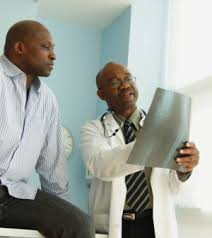
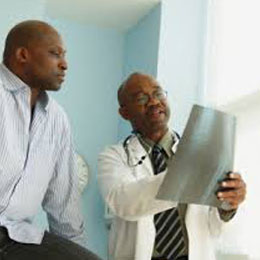
resized images

diff --git a/js/bigChart.js b/js/bigChart.js
@@ -36,26 +36,26 @@ function showBigChart() {
     datasets: [{
       label: 'Daily Goal',
       fillColor: 'rgba(100, 100, 100, 0.2)',
-      strokeColor: 'black',
-      pointColor: 'black',
+      strokeColor: '#2b2b2b',
+      pointColor: '#2b2b2b',
       data: lineChartGoal
     }, {
       label: 'Daily Water Intake',
       fillColor: 'rgba(0,0,0,0)',
-      strokeColor: 'blue',
-      pointColor: 'blue',
+      strokeColor: '#3aa7bf',
+      pointColor: '#3aa7bf',
       data: dayWater
     }, {
       label: 'Daily Protein Intake',
       fillColor: 'rgba(0,0,0,0)',
-      strokeColor: 'red',
-      pointColor: 'red',
+      strokeColor: '#b02e2e',
+      pointColor: '#b02e2e',
       data: dayProtein
     }, {
       label: 'Daily Exercise',
       fillColor: 'rgba(0,0,0,0)',
-      strokeColor: 'green',
-      pointColor: 'green',
+      strokeColor: '#35a43a',
+      pointColor: '#35a43a',
       data: dayExercise
     }]
   };

diff --git a/js/app.js b/js/app.js
@@ -1,6 +1,6 @@
 var currentUser = new User();
 var displayImage = document.getElementById('pictures');
-var slideShow = ['img/nonactivepatient.png','img/activepatient.png','img/malepatiendoc2.png','img/nonactivepatient3.png','img/activepatient3.jpg'];
+var slideShow = ['img/nonactivepatient.jpg','img/activepatient.jpg','img/malepatiendoc2.jpg','img/nonactivepatient3.jpg','img/yogapatient.jpg'];
 var displaying = 0;
 var buttonDiv = document.getElementById('button-bar-div');
 

diff --git a/css/charts.css b/css/charts.css
@@ -48,19 +48,19 @@ span{
 }
 
 .black{
-  background-color: black;
+  background-color: #2b2b2b;
 }
 
 .blue{
-  background-color: blue;
+  background-color: #3aa7bf;
 }
 
 .red{
-  background-color: red;
+  background-color: #b02e2e;
 }
 
 .green{
-  background-color: green;
+  background-color: #35a43a;
 }
 
 .footerHr{
